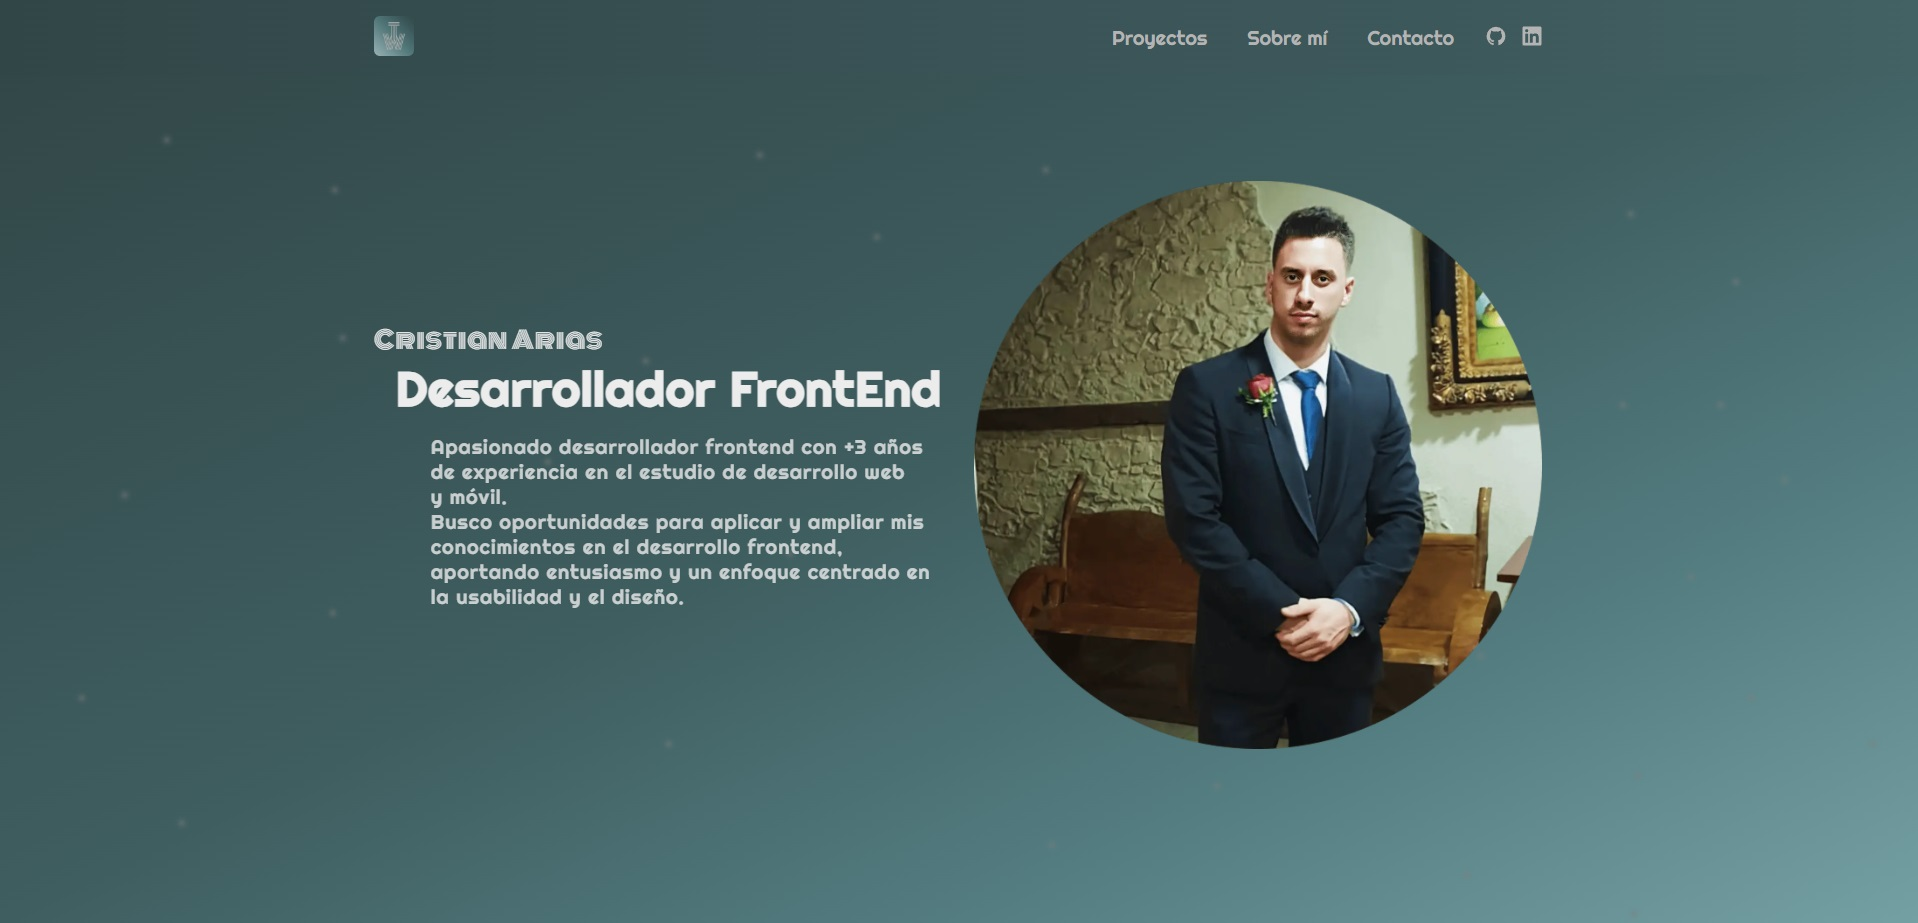
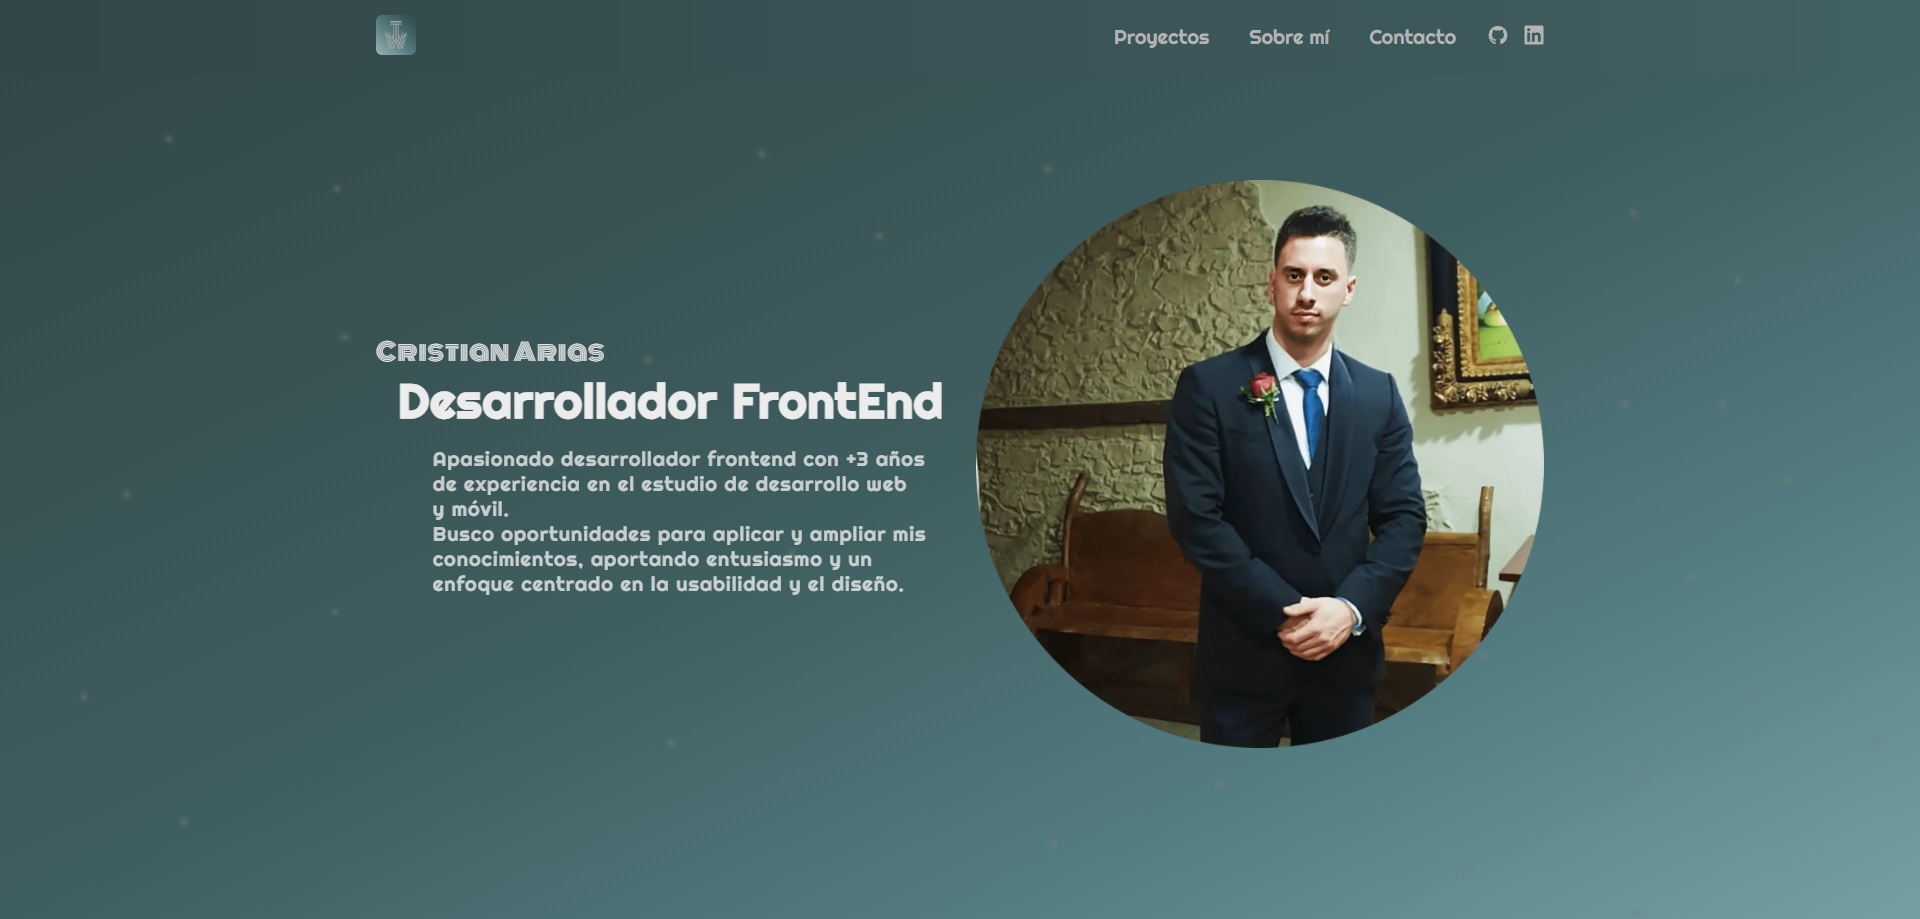
feat: New description change and new screenshot

diff --git a/src/components/HomeSection/HomeSection.jsx b/src/components/HomeSection/HomeSection.jsx
@@ -9,9 +9,8 @@ export default function HomeSection() {
         <small className="description">
           Apasionado desarrollador frontend con +3 años de experiencia en el
           estudio de desarrollo web y móvil. <br /> Busco oportunidades para
-          aplicar y ampliar mis conocimientos en el desarrollo frontend,
-          aportando entusiasmo y un enfoque centrado en la usabilidad y el
-          diseño.
+          aplicar y ampliar mis conocimientos, aportando entusiasmo y un enfoque
+          centrado en la usabilidad y el diseño.
         </small>
       </div>
 
